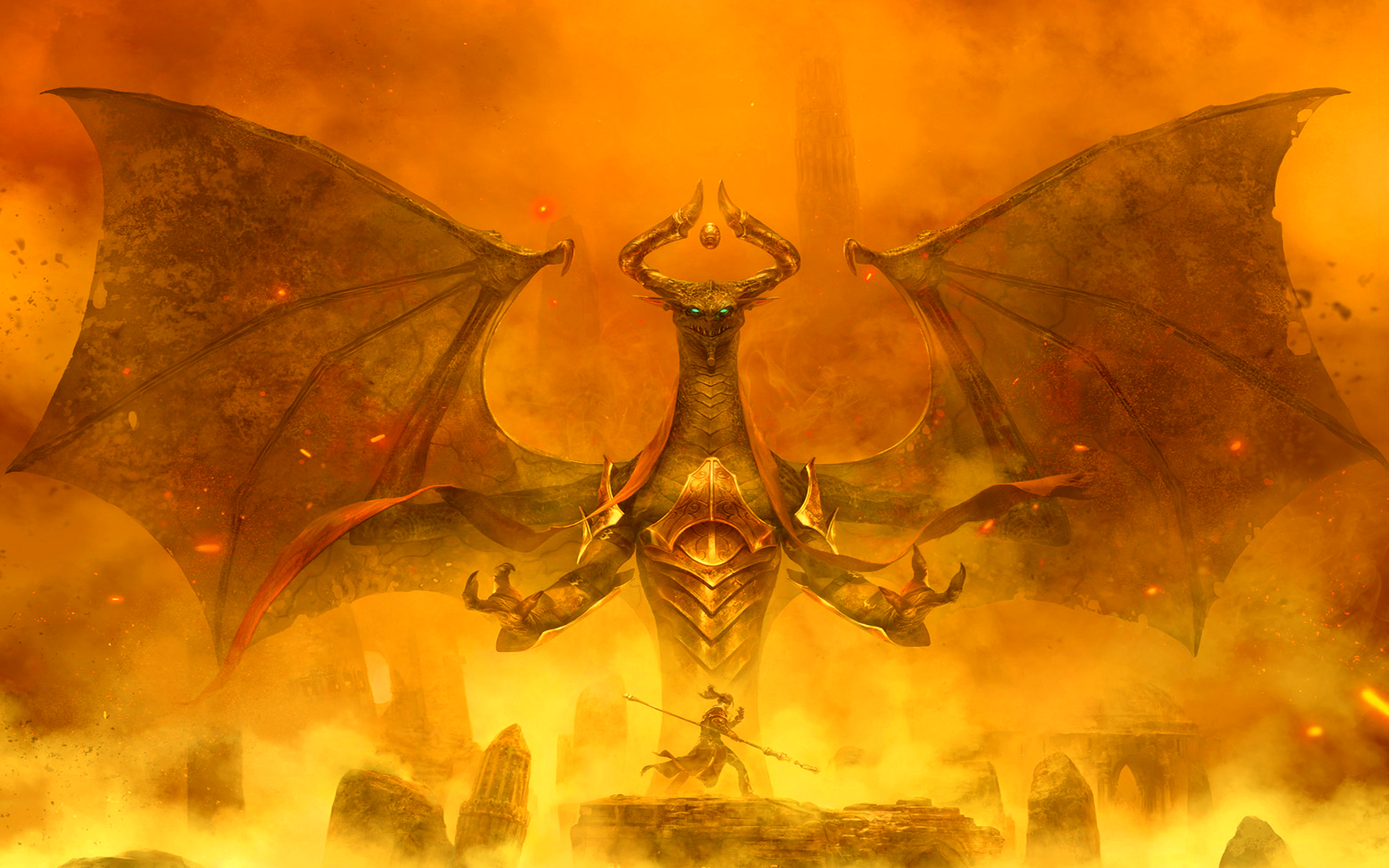
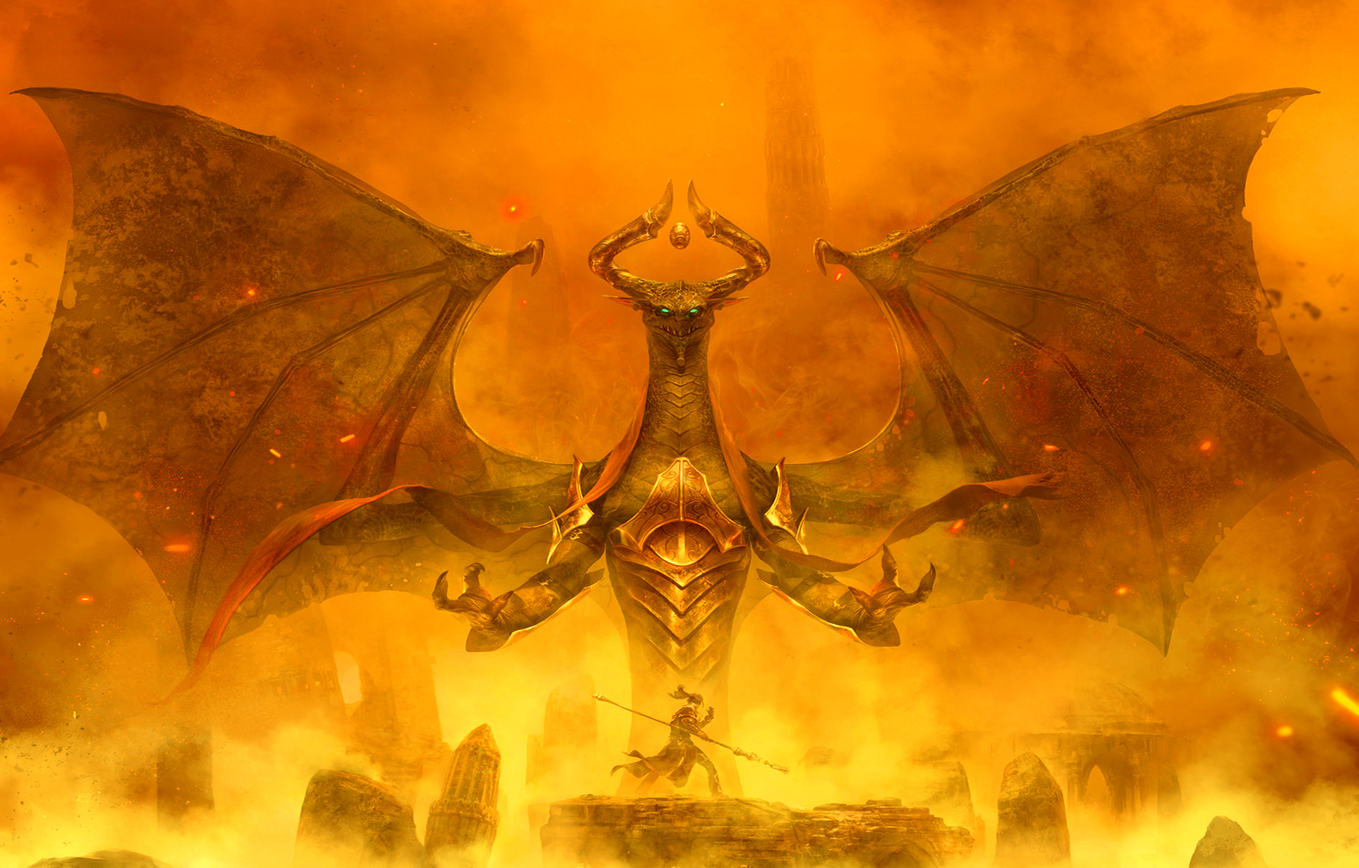
new NicolBolas image and added handleInterrupt functions commented out

diff --git a/src/App.js b/src/App.js
@@ -39,6 +39,7 @@ class App extends Component {
     this.startGame = this.startGame.bind(this)
     this.setShowSettings = this.setShowSettings.bind(this)
     this.returnToGame = this.returnToGame.bind(this)
+    // this.handleInterrupt = this.handleInterrupt.bind(this)
   }
 
   componentDidMount() {
@@ -126,6 +127,18 @@ class App extends Component {
     }
   }
 
+  // handleInterrupt(index) {
+  //   if (this.state.playerSelected === index && this.state.timers[index] === 0 && this.state.extensions[index] > 0) {
+  //     const tempExtensions = this.state.extensions
+  //     tempExtensions[index] = this.state.extensions[index] - 1
+
+  //     this.setState({
+  //       extensions: tempExtensions,
+  //       timers: [originalSecondsTimer, originalSecondsTimer, originalSecondsTimer, originalSecondsTimer]
+  //     })
+  //   }
+  // }
+
   setSelectedPlayer(indexPlayer) {
     if (indexPlayer !== this.state.playerSelected) {
       this.setState({
@@ -166,6 +179,7 @@ class App extends Component {
           rotate={this.state.rotate}
           showSettings={this.state.showSettings}
           setShowSettings={this.setShowSettings}
+          // handleInterrupt={this.handleInterrupt}
         />
       )
     }

diff --git a/src/Clock.js b/src/Clock.js
@@ -16,6 +16,10 @@ function Clock(props) {
 
     const interruptIconClassName = props.index === 1 || props.index === 2 ? 'interruptIcon right' : 'interruptIcon left'
     
+    // const handleInterrupt = () => {
+    //     props.handleInterrupt(props.index)
+    // }
+
     return (
         <div id={'clockDiv' + props.index} className={rotateClock ? 'clockDiv rotate' : 'clockDiv'}>
             <div id='displayClock' className={props.playerName === '' ? 'hideClock' : 'displayClock'}>
@@ -41,7 +45,8 @@ function Clock(props) {
                 </button>
 
                 <div>
-                    <img id='interruptIcon' className={interruptIconClassName} alt='Interrupt' src={interruptIcon} />
+                    {/* <img id={'interruptIcon' + props.index} className={interruptIconClassName} alt='Interrupt' src={interruptIcon} onClick={handleInterrupt} /> */}
+                    <img id={'interruptIcon' + props.index} className={interruptIconClassName} alt='Interrupt' src={interruptIcon} />
                 </div>
             </div>
         </div>
